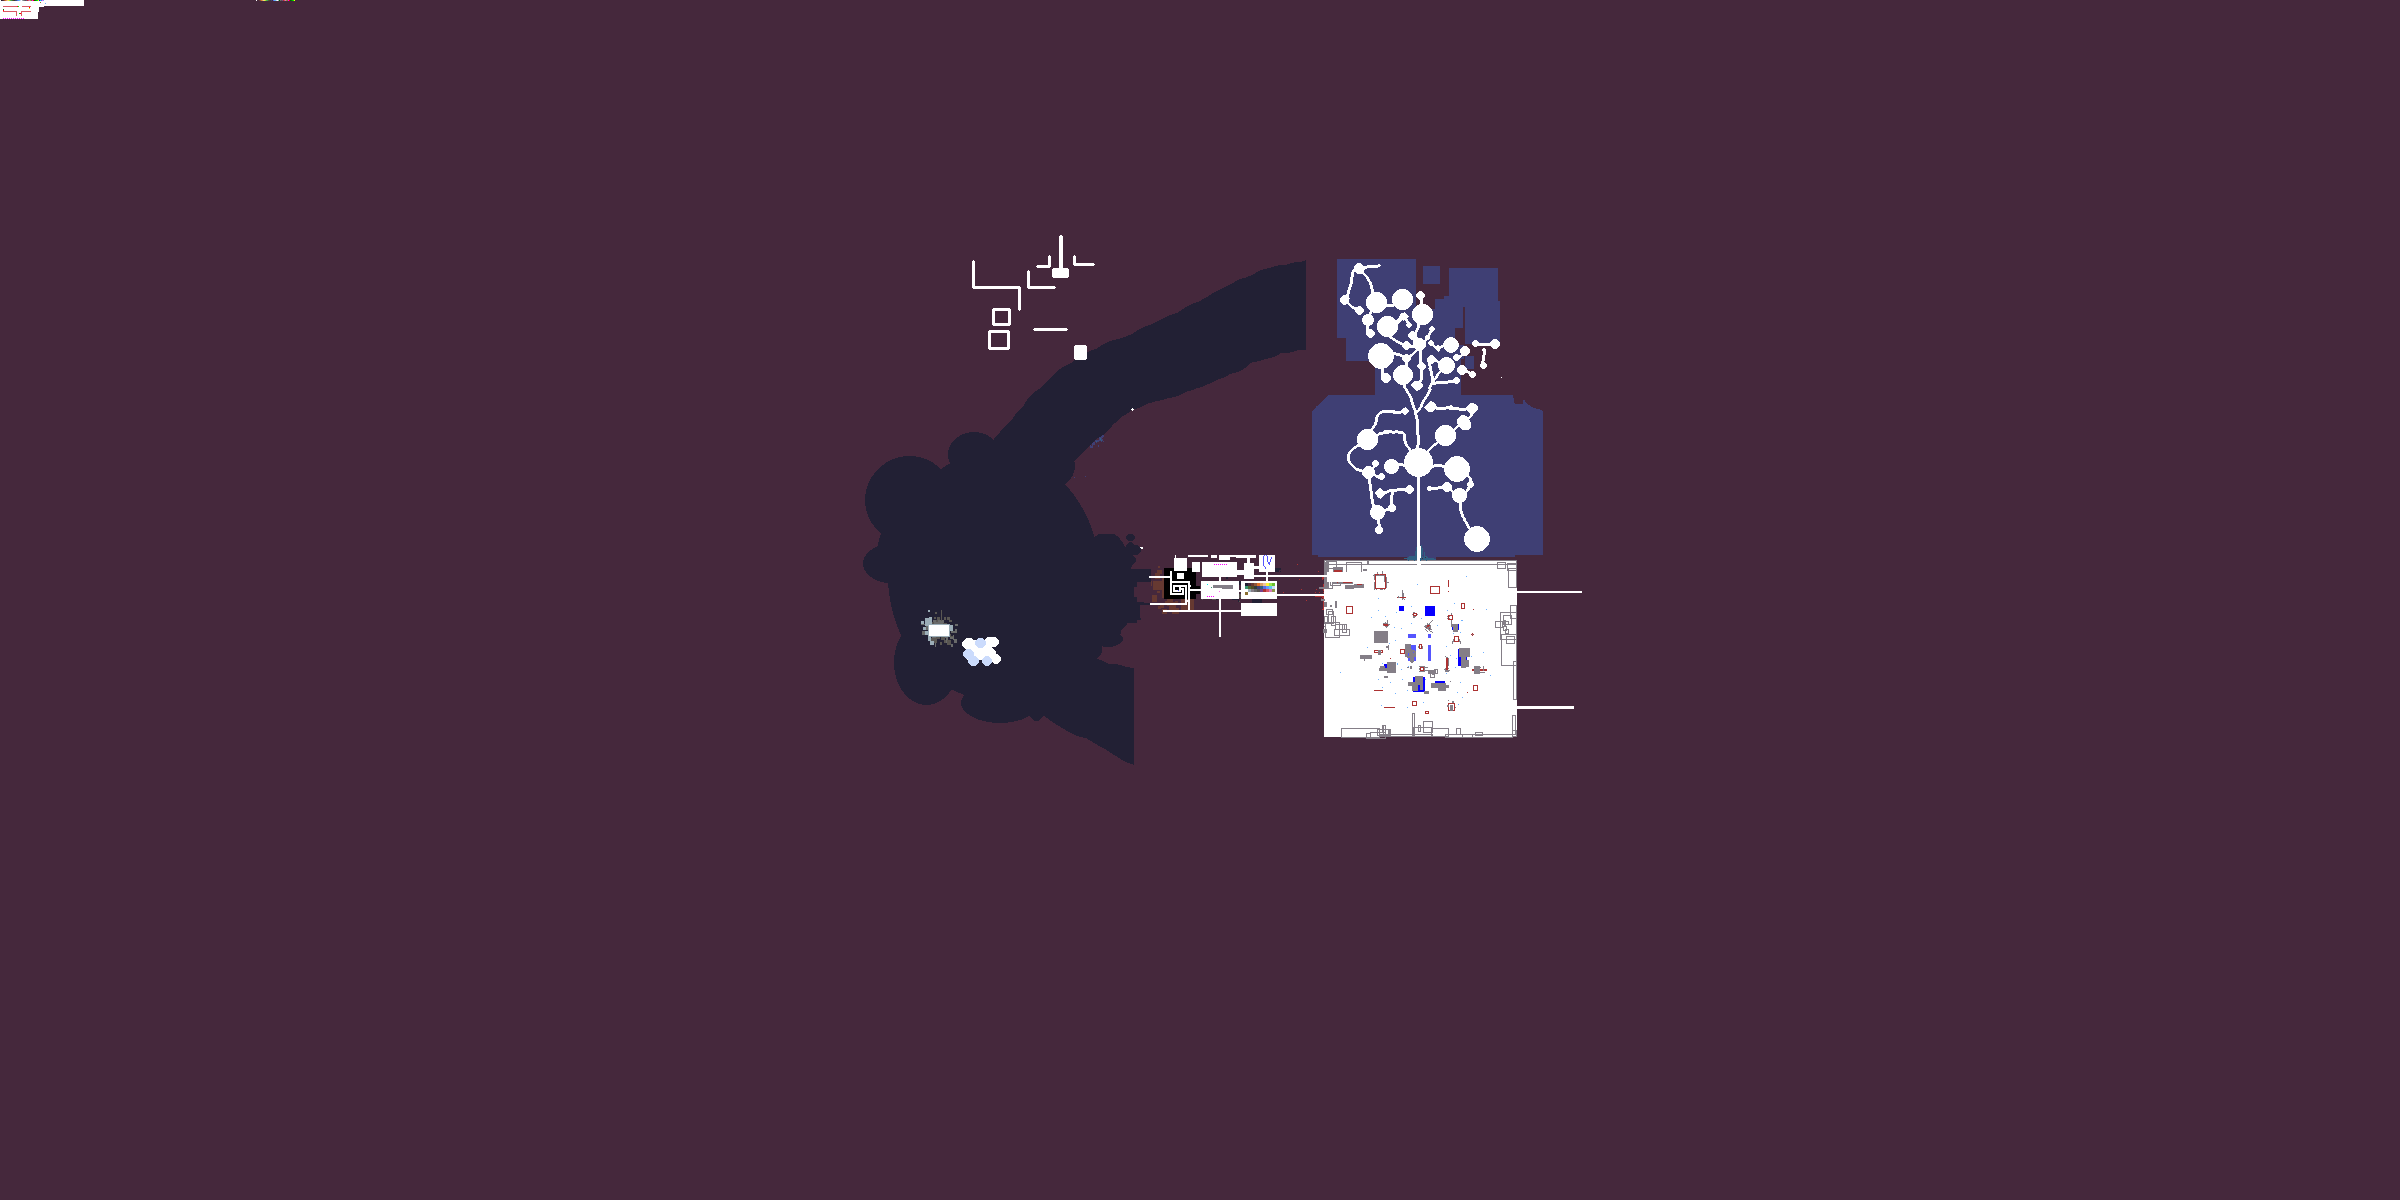
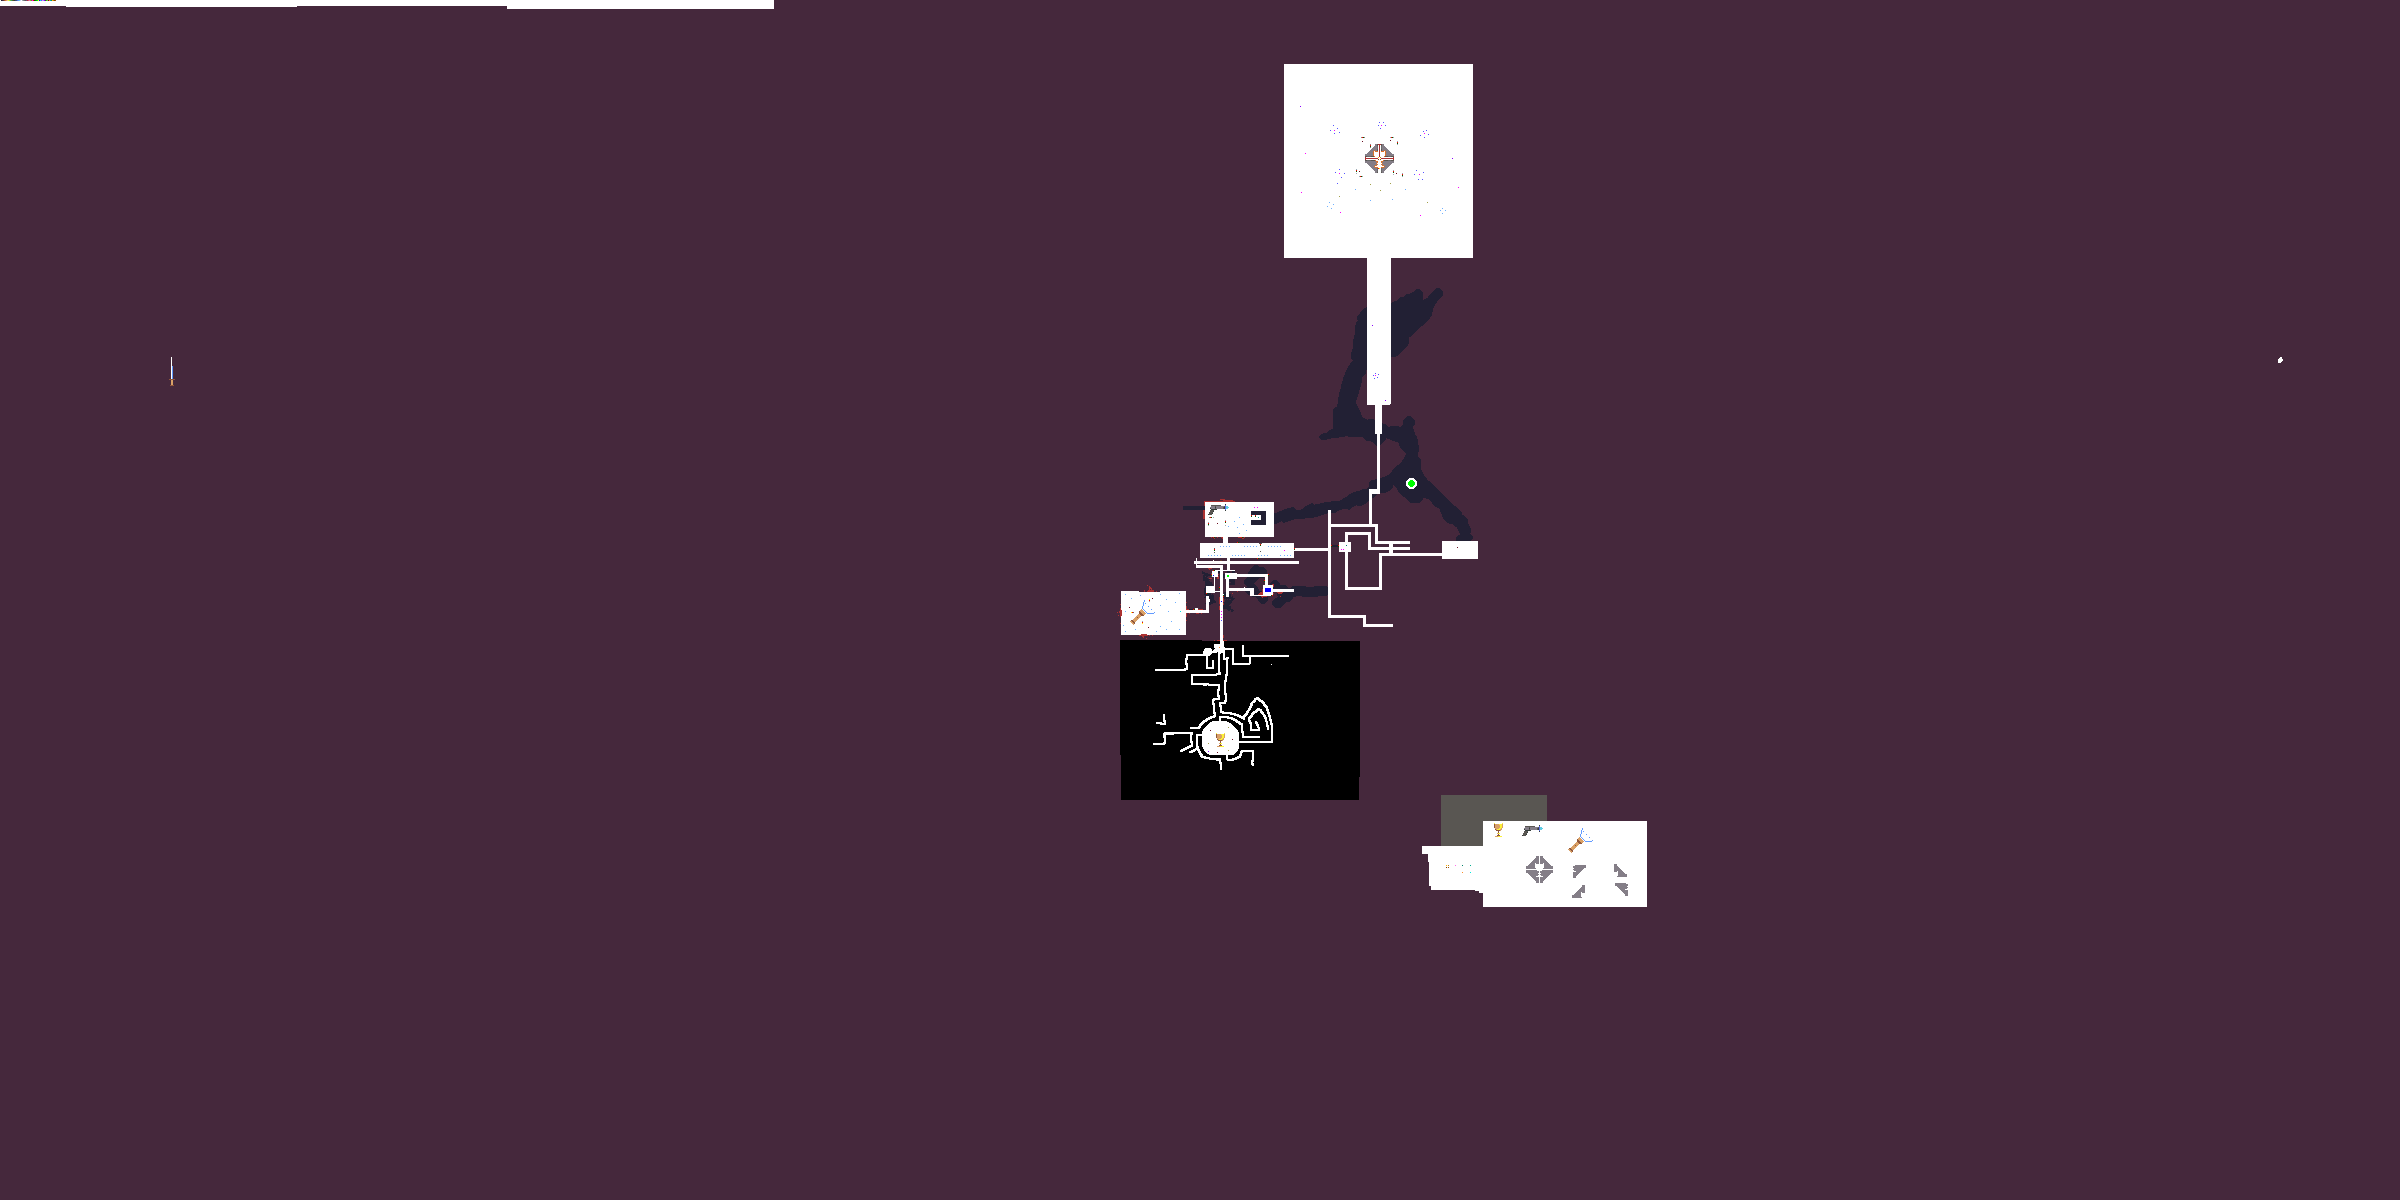
moar map update

diff --git a/js/entities/player.js b/js/entities/player.js
@@ -267,6 +267,33 @@ var player = {
                 inventory.selection++;
                 inventory.selection = inventory.selection % inventory.itemList.length;
             }
+
+
+            //CHEATS-------------------------------------------------------------------
+            /*
+                signal.addEventListener('getKey', getKey);
+                signal.addEventListener('getLight', getLight);
+                signal.addEventListener('getGun', getGun);
+                signal.addEventListener('getSabre', getSabre);
+                signal.addEventListener('getChalice', getChalice);
+            */
+            if (Key.justReleased(Key.TWO)) {
+                signal.dispatch('getKey')
+            }
+            if (Key.justReleased(Key.THREE)) {
+                signal.dispatch('getLight')
+            }
+            if (Key.justReleased(Key.FOUR)) {
+                signal.dispatch('getGun')
+            }
+            if (Key.justReleased(Key.FIVE)) {
+                signal.dispatch('getSabre')
+            }
+            if (Key.justReleased(Key.SIX)) {
+                signal.dispatch('getChalice')
+            }
+
+
             
 
             if(inventory.selectedItem == 'sabre' && inventory.items.sabre == 1){

diff --git a/js/entities/flashlight.js b/js/entities/flashlight.js
@@ -14,8 +14,8 @@ class Flashlight {
         this.canBeCollected = true;
 
         this.mapSprite = {
-            x: 1569,
-            y: 829,
+            x: 1130,
+            y: 600,
             width: 25,
             height: 25
         }

diff --git a/js/core/util.js b/js/core/util.js
@@ -13,6 +13,9 @@ const Key = {
     TWO: 50,
     THREE: 51,
     FOUR: 52,
+    FIVE: 53,
+    SIX: 54,
+    SEVEN: 55,
     COMMA: 188,
     PERIOD: 190,
     ENTER: 13,
